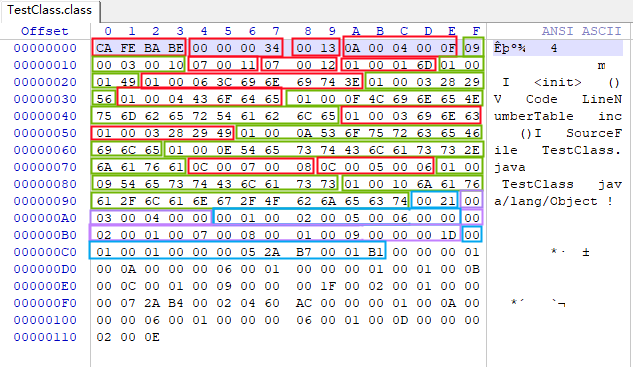
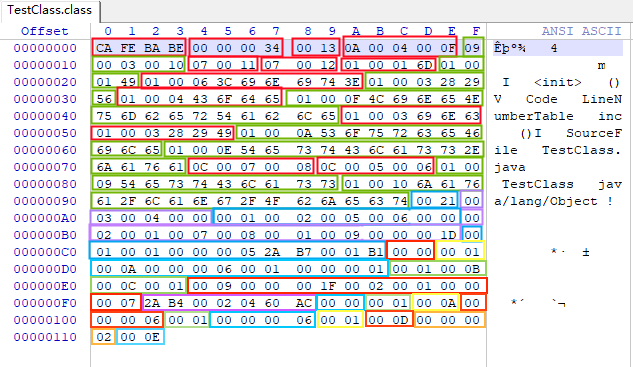
2025-06-29

Changed region(s): [[0.1201, 0.6294, 0.7804, 0.9591]]

diff --git a/读书笔记/《深入理解Java虚拟机》/TestClass.class分析.md b/读书笔记/《深入理解Java虚拟机》/TestClass.class分析.md
@@ -1,4 +1,4 @@
-# TestClass.class文件的分析
+# TestClass.class类文件结构的分析
 
 ## 用十六进制编辑器打开二进制文本展示
 
@@ -269,11 +269,11 @@ SourceFile: "TestClass.java"
 
 ### 类索引
 
-1. `00 03`：类名，指向常量池中的索引值为3，类型为CONSTANT_Utf8_info的常量，也就是`TestClass`。
+1. `00 03`：类名，指向常量池中的索引值为3的CONSTANT_Class_info类型的常量，通过该类型常量的索引值可以找到他的类型为CONSTANT_Utf8_info常量的全限定名字符串，也就是`TestClass`。
 
 ### 父类索引
 
-1. `00 04`：父类的全限定名
+1. `00 04`：父类的全限定名。指向常量池中的索引值为4的CONSTANT_Class_info类型的常量，通过该类型常量的索引值可以找到他的类型为CONSTANT_Utf8_info常量的全限定名字符串，也就是`java.lang.Object`。
 
 ### 接口索引集合
 
@@ -281,36 +281,81 @@ SourceFile: "TestClass.java"
 
 ### 字段表集合
 
-1. `00 01`：第一个u2类型的数据为字段表集合的容量计数器，fields_count。这里表示这个类只声明了一个字段表数据，也就是说这个类只有一个字段。
-2. `00 02`：字段访问标志，因为这个字段是private的，所以标志名称为ACC_PRIVATE的字段，它的标志值是0x0002。
-3. `00 05`：字段的简单名称，是指向常量池中索引值类型为5的CONSTANT_Utf8_info常量，也就是`m`。
-4. `00 06`：字段的描述符，用来描述字段的数据类型。是指向常量池中索引值类型为**6**的CONSTANT_Utf8_info常量，也就是`I`，含义是`int`类型。
-4. `00 00`：字段的属性表计数器，这里为0，说明该字段没有自己的属性。
+1. `00 01`：第一个u2类型的数据为**字段表集合的容量计数器**，fields_count。这里表示这个类只声明了一个字段表数据，也就是说这个类只有一个字段。
+2. `00 02`：**字段访问标志**，因为这个字段是private的，所以标志名称为ACC_PRIVATE的字段，它的标志值是0x0002。
+3. `00 05`：**字段的简单名称**，是指向常量池中索引值类型为5的CONSTANT_Utf8_info常量，也就是`m`。
+4. `00 06`：**字段的描述符**，用来描述字段的数据类型。是指向常量池中索引值类型为**6**的CONSTANT_Utf8_info常量，也就是`I`，含义是`int`类型。
+4. `00 00`：**字段的属性表计数器**，这里为0，说明该字段没有自己的属性。
 
 ### 方法表集合
 
-1. `00 02`：第一个u2类型的数据为方法表集合的容量计数器，methods_count。这里代表集合有两个方法，分别是编译器添加的实例构造器`<init>`和源码中的方法`inc()`。
+1. `00 02`：第一个u2类型的数据为**方法表集合的容量计数器**，methods_count。这里代表集合有两个方法，分别是编译器添加的实例构造器`<init>`和源码中的方法`inc()`。
 
 #### 第一个方法
 
-1. `00 01`：第一个方法的字段访问标志，值为0x0001，也就是只有ACC_PUBLIC标志为真，也就是说这个方法是public修饰的。
-2. `00 07`：方法名称，是指向常量池中索引值类型为7的CONSTANT_Utf8_info常量，也就是方法名为：`<init>`。
-3. `00 08`：方法的描述符，是指向常量池中索引值类型为8的CONSTANT_Utf8_info常量，也就是：`()V`。
-4. `00 01`：方法的属性表计数器，attributes_count的值为1，表示此方法的属性集合表中有一项属性。
+1. `00 01`：第一个方法的**字段访问标志**，值为0x0001，也就是只有ACC_PUBLIC标志为真，也就是说这个方法是public修饰的。
+2. `00 07`：**方法名称**，是指向常量池中索引值为7的CONSTANT_Utf8_info常量，也就是方法名为：`<init>`，也就是编译器自动为我们生成的无参构造器方法。
+3. `00 08`：**方法的描述符**，是指向常量池中索引值类型为8的CONSTANT_Utf8_info常量，也就是：`()V`，也就是没有方法入参，方法返回值是`void`。
+4. `00 01`：**方法的属性表计数器**，attributes_count的值为1，表示此方法的属性集合表中有一项属性。
 
 ##### 属性表集合
 
-1. `00 09`：属性名称索引，是指向常量池中索引值类型为8的CONSTANT_Utf8_info常量，属性名称是：`Code`。
-2. `00 00 00 1D`：属性值长度，这里的长度是29。
-3. `00 01`：操作数栈深度的最大值为1。
-4. `00 01`：局部变量所需的存储空间，这里是1Shot。
+1. `00 09`：属性名称索引，是指向常量池中索引值为9的CONSTANT_Utf8_info常量，属性名称是：`Code`。
+2. `00 00 00 1D`：属性值长度，这里的长度是29。这个长度是排除了**属性名称索引**和**属性值长度**的。
+3. `00 01`：操作数栈深度的最大值为1，虚拟机运行时需要根据这个这个值来分配栈帧。
+4. `00 01`：局部变量所需的存储空间，这里是1 Shot。这里的1个shot保存的是实例方法中的隐藏参数this。
 5. `00 00 00 05`：字节码长度，这里为5个字节。
 6. `2A B7 00 01 B1`：字节码指令
-    * `0x2a`：aload_0，将第一个引用类型本地变量推送至栈顶
-    * `0xb7`：invokespecial	调用超类构建方法, 实例初始化方法, 私有方法
-    * `0x00`：nop，None
+    * `0x2a`：aload_0，将第一个引用类型本地变量推送至栈顶。
+    * `0xb7`：invokespecial，调用超类构建方法，实例初始化方法，私有方法。
+    * `0x00`：nop，什么都不做。
     * `0x01`：aconst_null，将null推送至栈顶
-    * `0xb1`：return，从当前方法返回void
+    * `0xb1`：return，从当前方法返回`void`
+7. `00 00`：异常处理表的长度是0
+8. `00 01`：**附属属性**的数量是1个
+9. `00 0A`：属性名称索引，是指向常量池中索引值为10的CONSTANT_Utf8_info常量，属性名称是：`LineNumberTable`。
+10. `00 00 00 06`：属性值长度，这里的长度是6
+11. `00 01`：类型为line_number_info的集合数量为1
+12. `00 00 00 01`：line_numer_info表，具体的结构内容如下：
+     * `00 00`：`start_pc`数据项，字节码指令的偏移量（单位：字节），即该指令在`Code`属性的`code[]`数组中的索引位置。例如，`start_pc=0`表示方法的第一条指令。
+     * `00 01`：`line_number`数据项，对应的Java源代码行号（从1开始计数）。
+     * 也就是说start_pc为0就是`0x2a`：aload_0指令，对应Java源码中的`public class TestClass {`第1行代码。
 
 #### 第二个方法
 
+1. `00 01`：第一个方法的**字段访问标志**，值为0x0001，也就是只有ACC_PUBLIC标志为真，也就是说这个方法是public修饰的。
+2. `00 0B`：**方法名称**，是指向常量池中索引值为11的CONSTANT_Utf8_info常量，也就是方法名为：`inc`，也就是我们自定义的方法。
+3. `00 0C`：**方法的描述符**，是指向常量池中索引值为12的CONSTANT_Utf8_info常量，也就是：`()I`，也就是没有方法入参，方法返回值是`int`。
+4. `00 01`：**方法的属性表计数器**，attributes_count的值为1，表示此方法的属性集合表中有一项属性。
+
+##### 属性表集合
+
+1. `00 09`：属性名称索引，是指向常量池中索引值为9的CONSTANT_Utf8_info常量，属性名称是：`Code`。
+2. `00 00 00 1F`：属性值长度，这里的长度是31。这个长度是排除了**属性名称索引**和**属性值长度**的。
+3. `00 01`：操作数栈深度的最大值为2。
+4. `00 01`：局部变量所需的存储空间，这里是1 Shot。这里的1个shot保存的是实例方法中的隐藏参数this。
+5. `00 00 00 07`：字节码长度，这里为7个字节。
+6. `2A B4 00 02 04 60 AC`：字节码指令
+    * `0x2A`：aload_0，将第一个引用类型本地变量推送至栈顶。
+    * `0xB4`：getfield，获取指定类的实例域，并将其值压入栈顶。
+    * `0x00`：nop，什么都不做。
+    * `0x02`：iconst_m1，将int型-1推送至栈顶。
+    * `0x04`：iconst_1，将int型1推送至栈顶。
+    * `0x60`：iadd，将栈顶两个int型数值相加并将结果压入栈顶。
+    * `0xAC`：ireturn，从当前方法返回int。
+7. `00 00`：异常处理表的长度是0
+8. `00 01`：**附属属性**的数量是1个
+9. `00 0A`：属性名称索引，是指向常量池中索引值为10的CONSTANT_Utf8_info常量，属性名称是：`LineNumberTable`。
+10. `00 00 00 06`：属性值长度，这里的长度是6
+11. `00 01`：类型为line_number_info的集合数量为1
+12. `00 00 00 06`：line_numer_info表，具体的结构内容如下：
+    * `00 00`：`start_pc`数据项，字节码指令的偏移量（单位：字节），即该指令在`Code`属性的`code[]`数组中的索引位置。例如，`start_pc=0`表示方法的第一条指令。
+    * `00 06`：`line_number`数据项，对应的Java源代码行号（从1开始计数）。
+    * 也就是说start_pc为0就是`0x2A`：aload_0指令，对应Java源码中的`return m + 1;`第6行代码。
+
+### Class文件属性表集合
+
+1. `00 01`：**Class文件的属性表计数器**，attributes_count的值为1，表示Class文件的属性集合表中有一项属性。
+2. `00 0D`：属性名称索引，是指向常量池中索引值为13的CONSTANT_Utf8_info常量，属性名称是：`SourceFile`。
+3. `00 00 00 02`：属性长度，这里是2。
+4. `00 0E`：源码文件的文件名索引，指向常量池中索引值为14的CONSTANT_Utf8_info常量，源码文件的文件名为`TestClass.java`。

diff --git a/框架知识/慕课网JVM实战课程.md b/框架知识/慕课网JVM实战课程.md
@@ -244,11 +244,11 @@
 
 ### 3-4 案例：自定义ClassLoader
 
-我们在cn.bravedawn.jvm.classloader.MyClassLoader中定义了自己的ClassLoader，覆盖了原有的findClass()方法，这里我们通过读取本地文件的方式来获取到class文件的信息从而将class文件装载到虚拟机中。其他场景下我们也可以自定义自己的classloader，比如装载前修改class文件进行方法增强，权限校验，加解密class文件，网络中的class文件。
+我们在`cn.bravedawn.jvm.classloader.MyClassLoader`中定义了自己的`ClassLoader`，覆盖了原有的`findClass()`方法，这里我们通过读取本地文件的方式来获取到class文件的信息从而将class文件装载到虚拟机中。其他场景下我们也可以自定义自己的classloader，比如装载前修改class文件进行方法增强，权限校验，加解密class文件，网络中的class文件。
 
 我在cn.bravedawn.jvm.classloader.MyClassLoaderTest测试类中加载MyClass.class文件，这里有两种情况：
 
-1. 在项目中没有创建`class/cn/bravedawn/jvm/classloader/MyClass.class`的时候，我们运行MyClassLoaderTest测试类时，JVM发现jvm.demo是一个具名模块，且在具名模块中可以找到类加载器AppClassLoader，所以就会使用AppClassLoader去加载MyClass.class文件。此时输出的结果是：
+1. 在项目中没有创建`class/cn/bravedawn/jvm/classloader/MyClass.class`的时候，我们运行MyClassLoaderTest测试类时，根据双亲委派模型，当我们编写的类加载器`MyClassLoader`加载`MyClass`的这个类的时候，首先会委托给父加载器`AppClassLoader`去加载，`AppClassLoader`在target目录下面找到了这个类的class文件，就将这个类进行了加载。此时输出的结果是：
 
     ```
     cls Class loader = jdk.internal.loader.ClassLoaders$AppClassLoader@5a39699c
